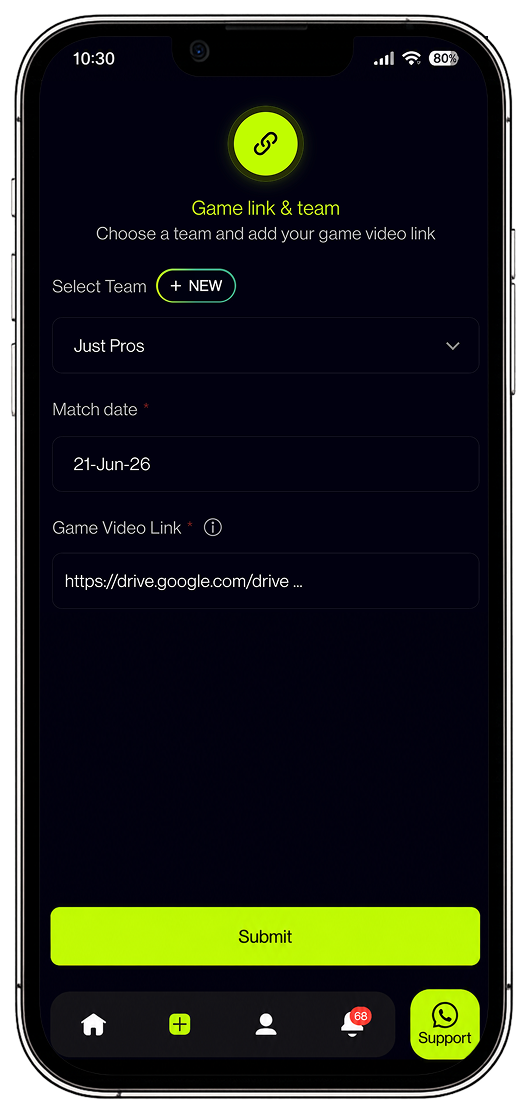
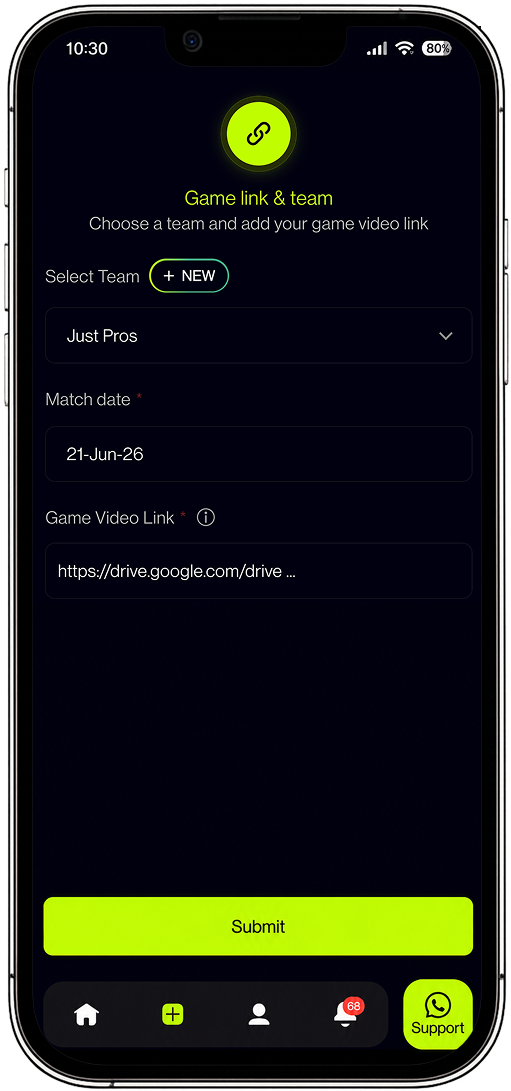
img update

diff --git a/src/components/HeroSection.tsx b/src/components/HeroSection.tsx
@@ -63,22 +63,22 @@ export default function HeroSection({ totalUserCount }: HeroSectionProps) {
           </div>
 
           {/* Right — Input → Output visual */}
-          <div className="relative flex min-h-[min(52vh,440px)] items-center justify-center sm:min-h-[min(58vh,500px)] lg:min-h-0 lg:h-full lg:justify-end">
+          <div className="relative flex min-h-[min(58vh,500px)] items-center justify-center sm:min-h-[min(64vh,560px)] lg:min-h-0 lg:h-full lg:justify-end">
             <div
               className="pointer-events-none absolute inset-0 flex items-center justify-center"
               aria-hidden
             >
-              <div className="h-full max-h-[min(72vh,700px)] w-full max-w-md rounded-full bg-primary/10 blur-3xl" />
+              <div className="h-full max-h-[min(80vh,780px)] w-full max-w-lg rounded-full bg-primary/10 blur-3xl" />
             </div>
 
             <div className="relative z-10 flex items-center justify-center gap-4 sm:gap-6 lg:gap-8">
-              <div className="relative z-20 w-fit -rotate-6 lg:-rotate-8">
+              <div className="relative z-20 w-fit -rotate-2 lg:-rotate-3">
                 <Image
                   src="/final-input.png"
                   alt="Submit your game"
                   width={520}
                   height={1040}
-                  className="pointer-events-none h-[min(44vh,380px)] w-auto object-contain sm:h-[min(50vh,440px)] lg:h-[min(62vh,580px)] xl:h-[min(68vh,640px)]"
+                  className="pointer-events-none h-[min(55vh,480px)] w-auto object-contain sm:h-[min(62vh,540px)] lg:h-[min(75vh,720px)] xl:h-[min(82vh,800px)]"
                   priority
                 />
                 <HeroHighlightVideo src={videoUrl} />
@@ -90,16 +90,16 @@ export default function HeroSection({ totalUserCount }: HeroSectionProps) {
                 aria-hidden
                 width={100}
                 height={100}
-                className="pointer-events-none absolute top-[28%] left-1/2 z-30 h-14 w-14 -translate-x-1/2 -translate-y-1/2 sm:h-16 sm:w-16 lg:top-[26%] lg:h-[4.5rem] lg:w-[4.5rem]"
+                className="pointer-events-none absolute top-[5%] left-1/2 z-30 h-14 w-14 -translate-x-1/2 -translate-y-1/2 sm:h-16 sm:w-16 lg:top-[5%] lg:h-[4.5rem] lg:w-[4.5rem]"
               />
 
-              <div className="pointer-events-none relative z-0 w-fit rotate-6 lg:rotate-8">
+              <div className="pointer-events-none relative z-0 w-fit rotate-8 lg:rotate-10">
                 <Image
                   src="/final-input.png"
                   alt="Match analysis and stats"
                   width={540}
                   height={1080}
-                  className="h-[min(44vh,380px)] w-auto object-contain sm:h-[min(50vh,440px)] lg:h-[min(62vh,580px)] xl:h-[min(68vh,640px)]"
+                  className="h-[min(55vh,480px)] w-auto object-contain sm:h-[min(62vh,540px)] lg:h-[min(75vh,720px)] xl:h-[min(82vh,800px)]"
                   priority
                 />
               </div>